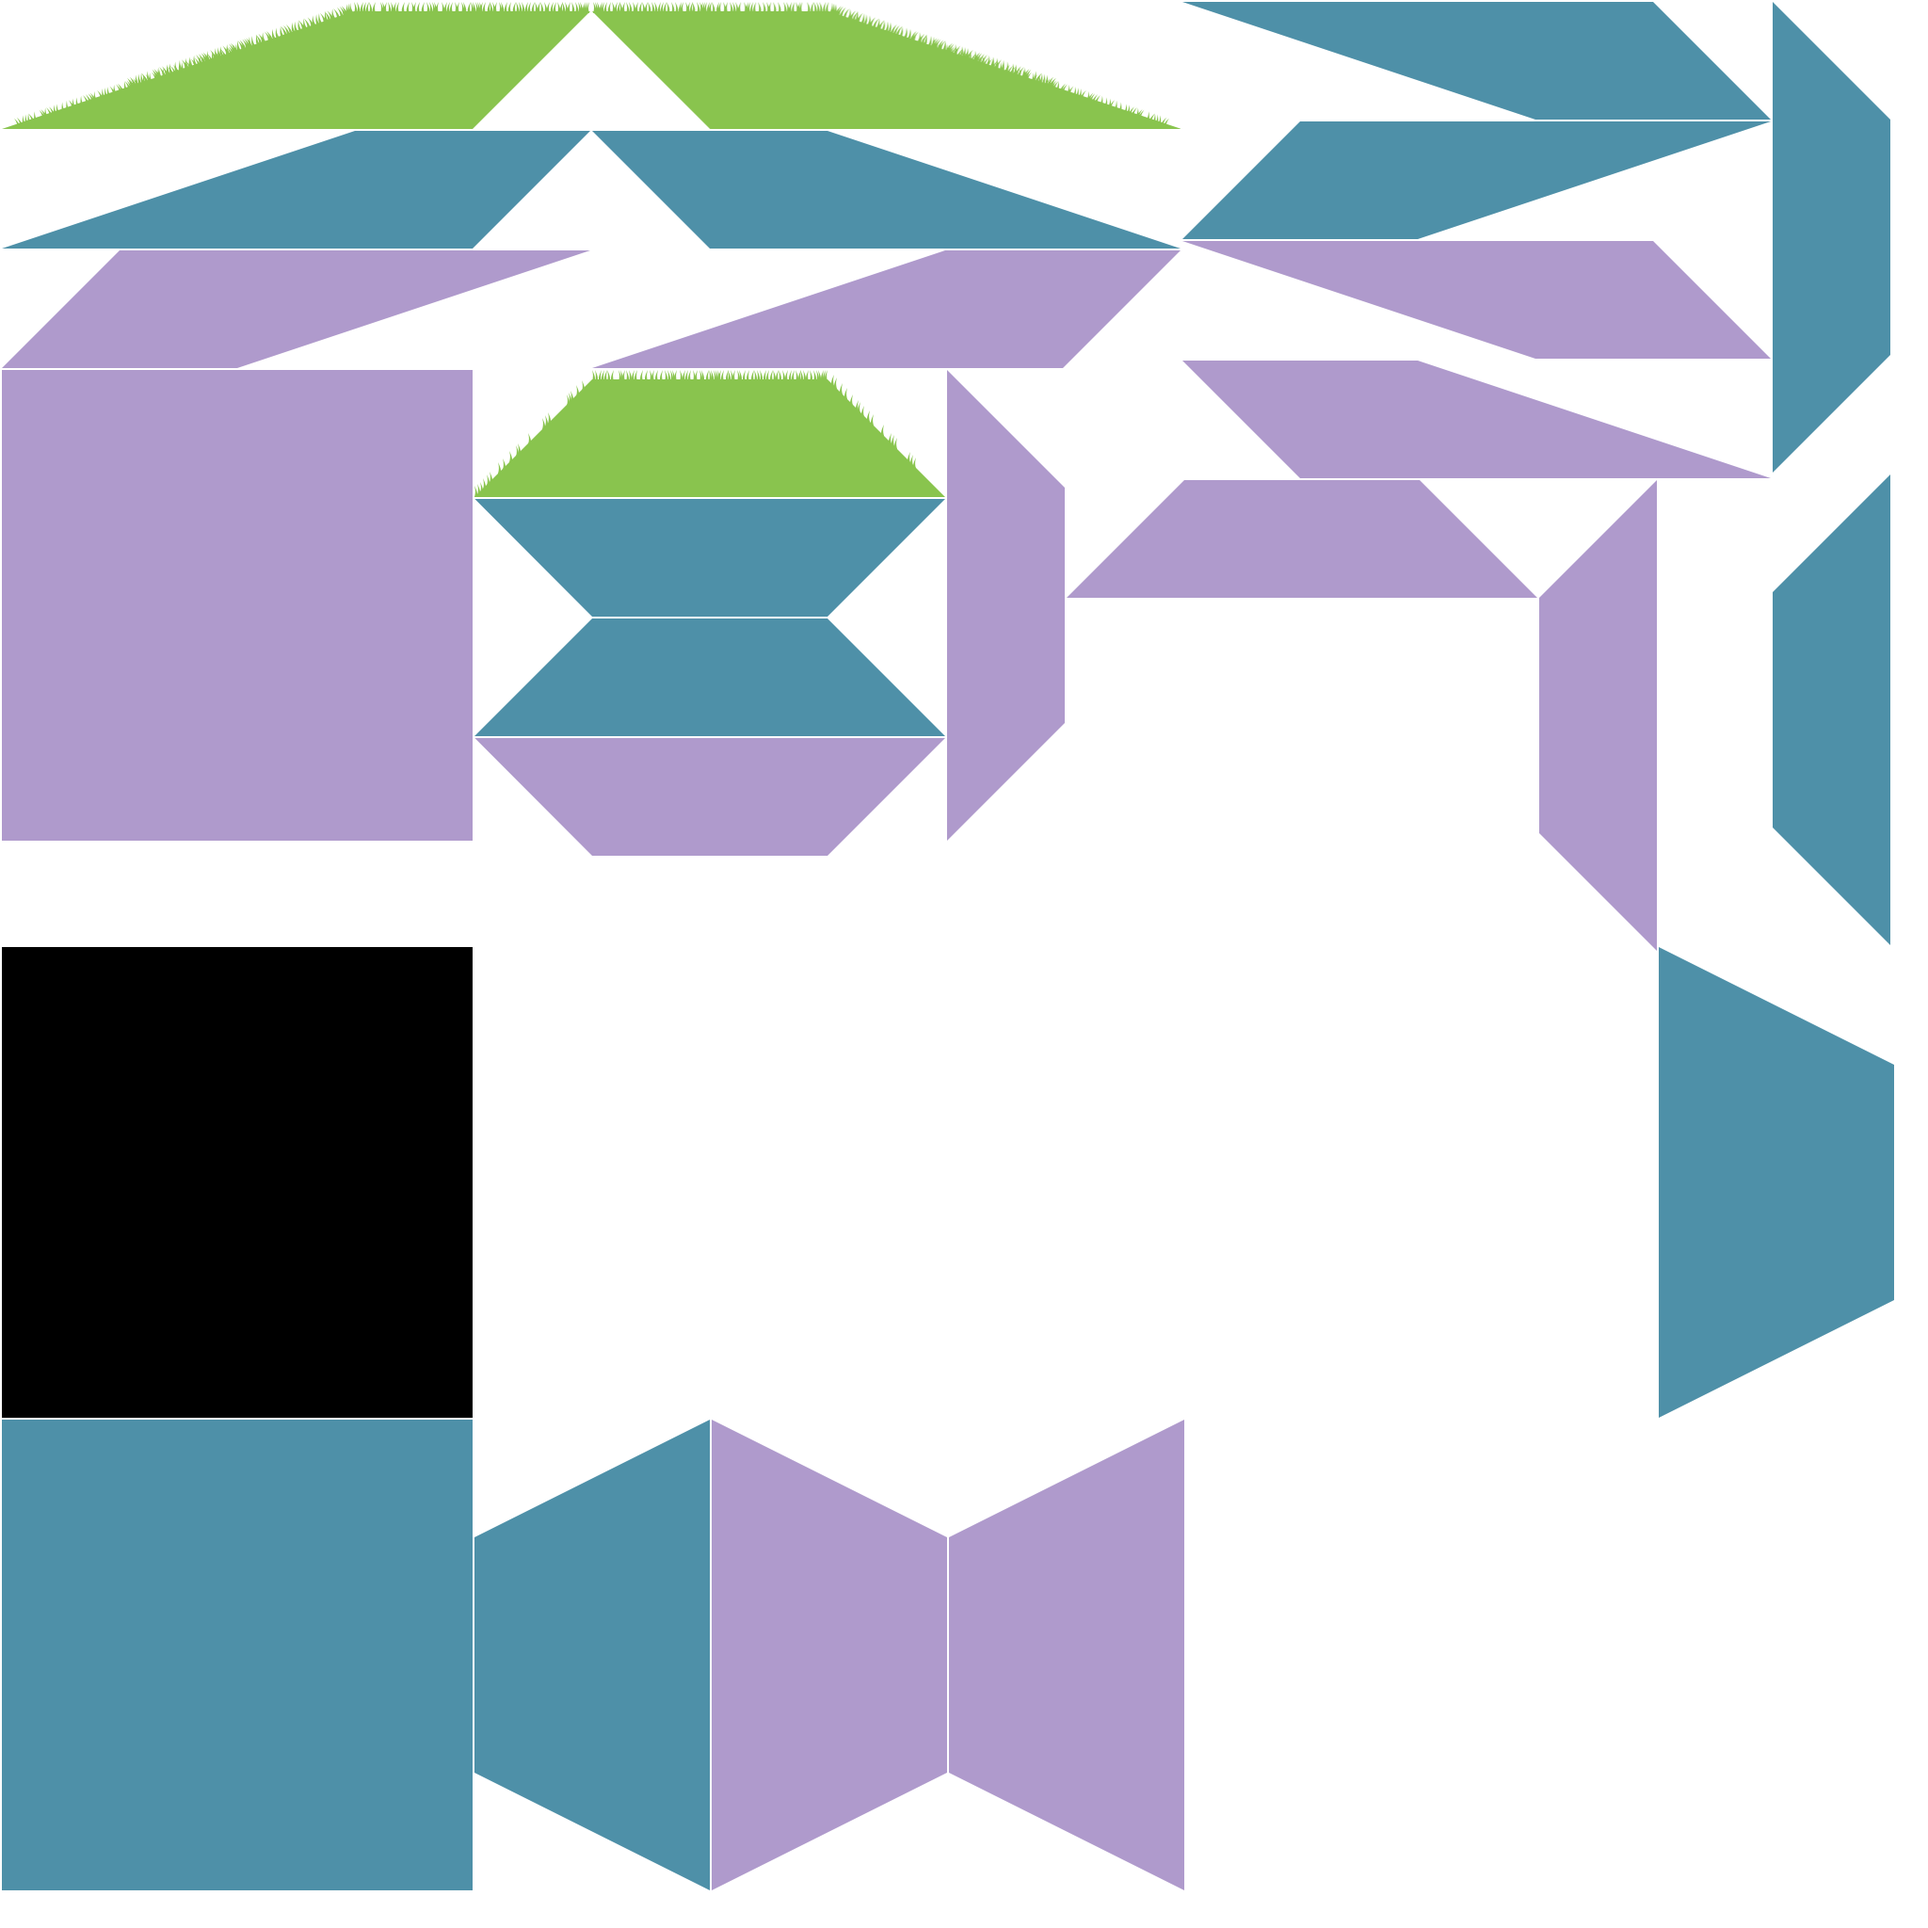
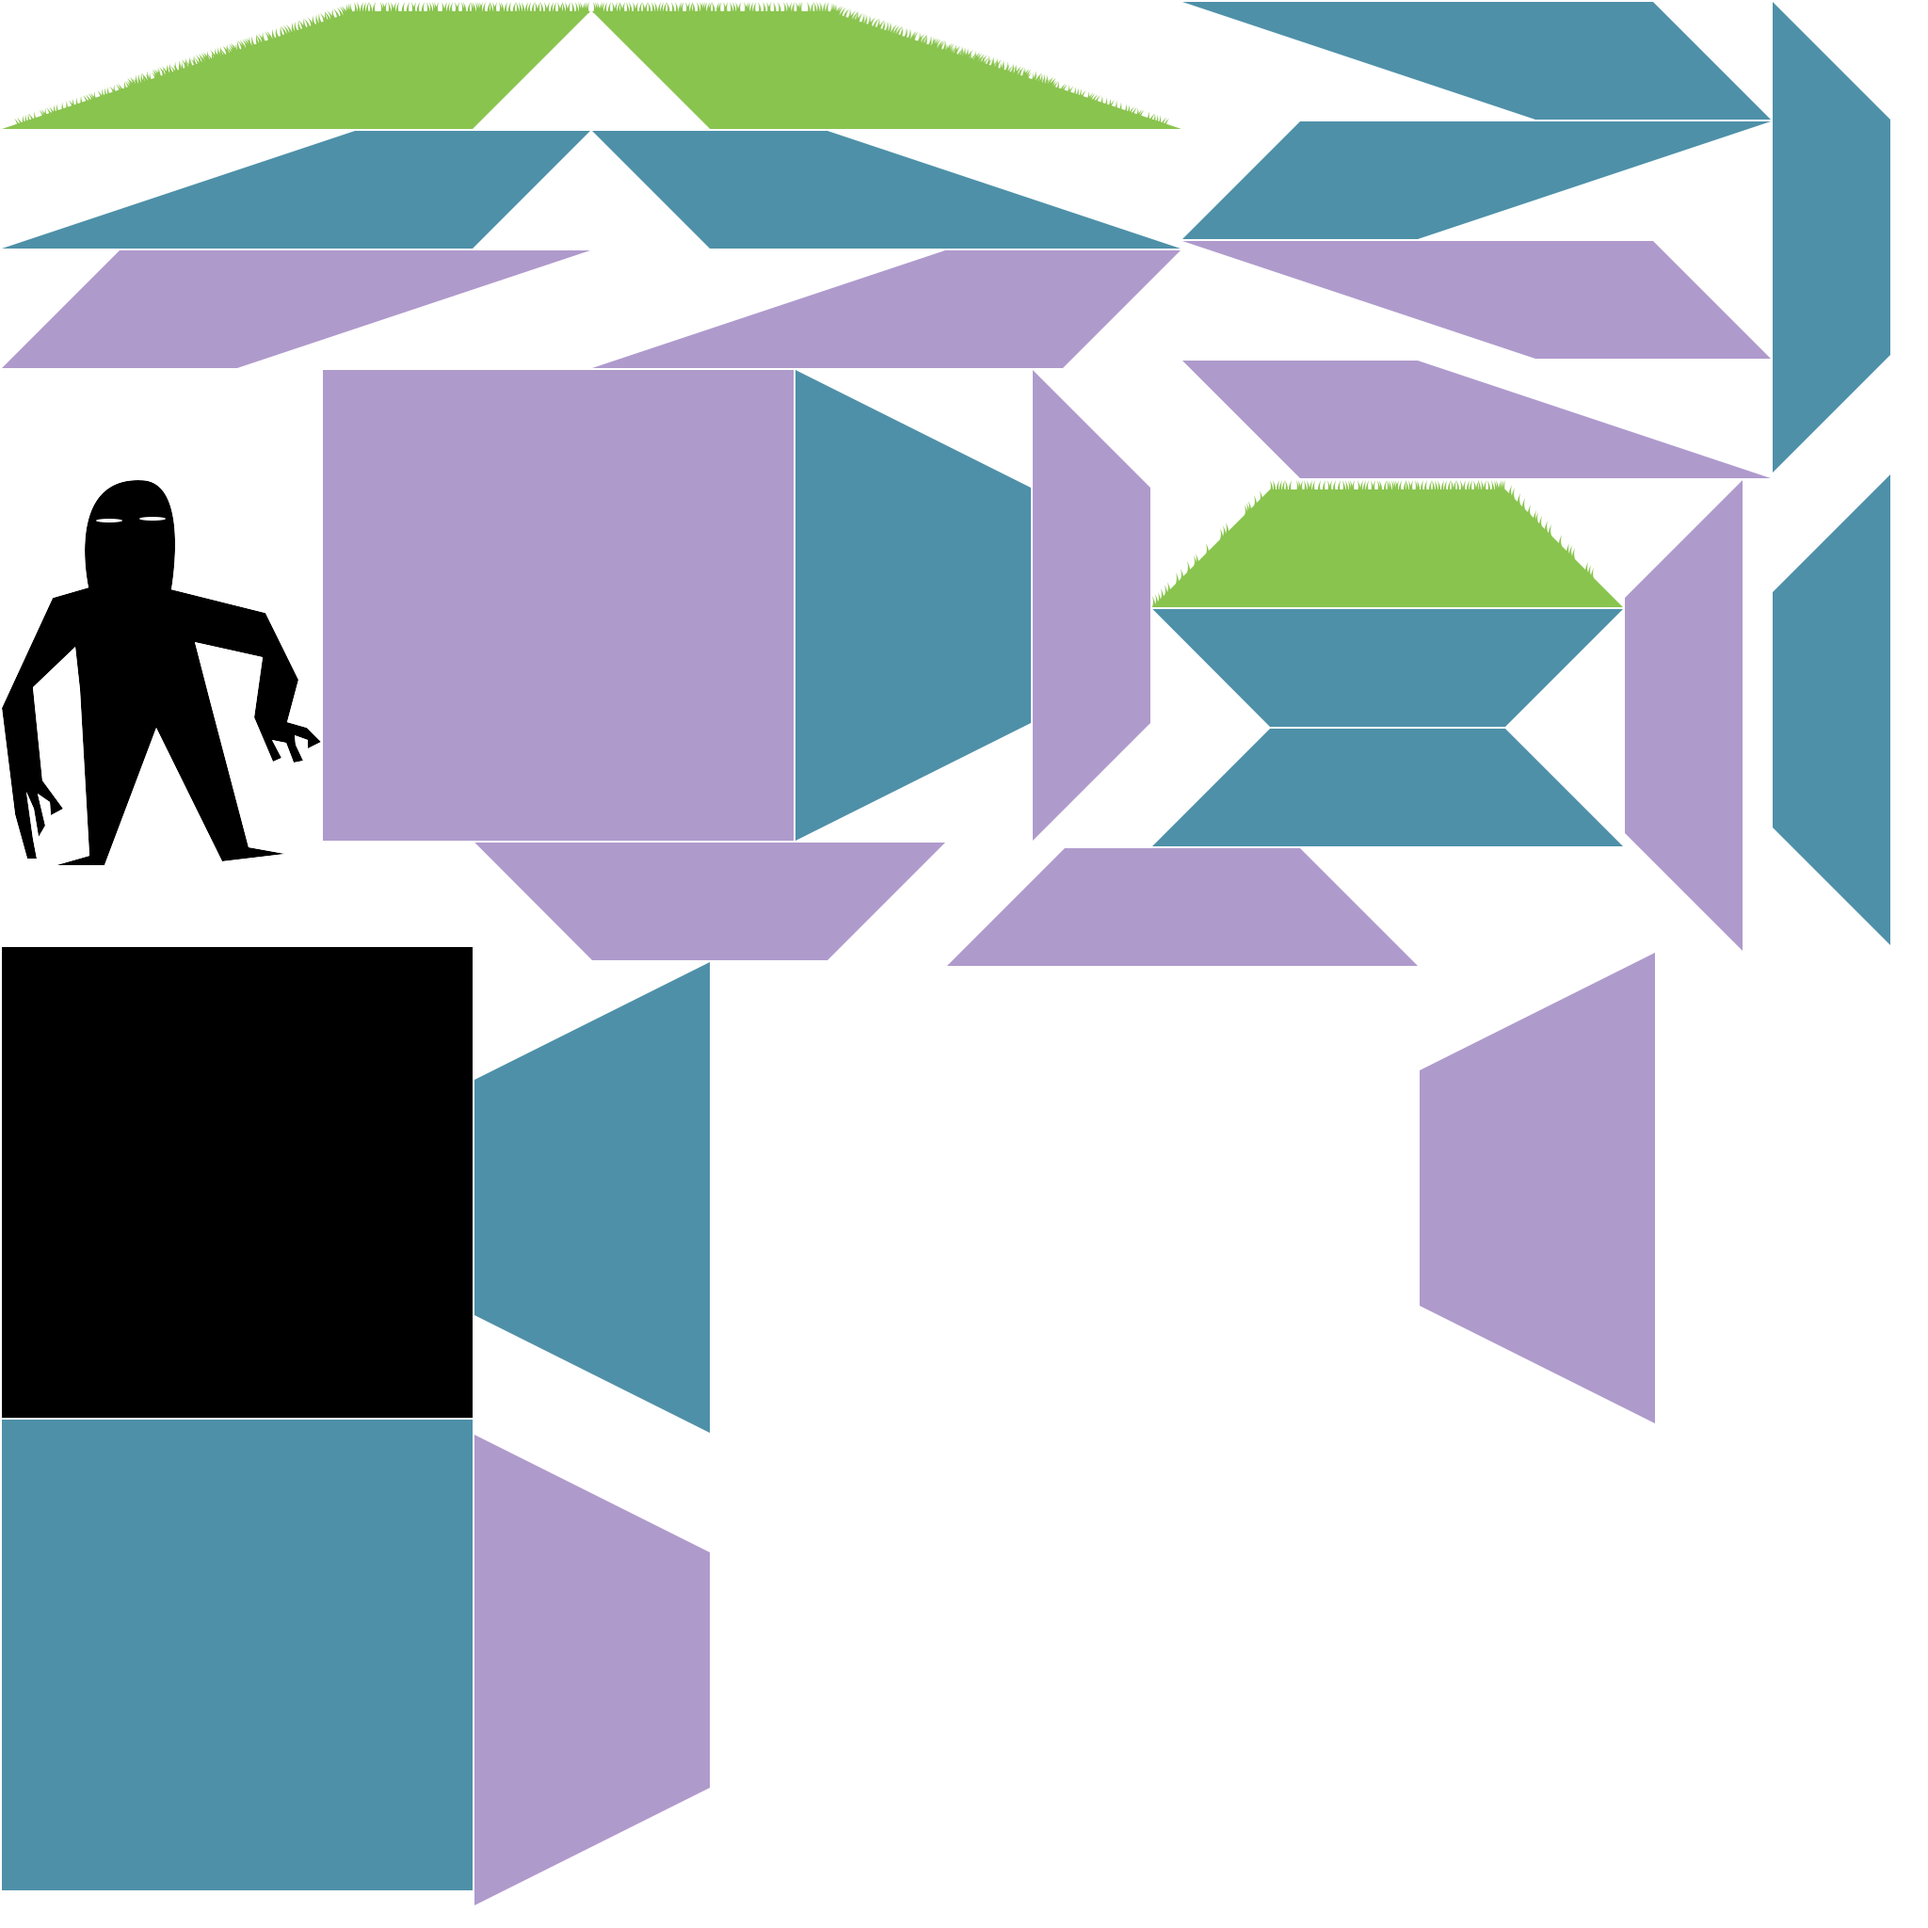
Added monster to pack and fixed undefined checks

diff --git a/engine/edgy.js b/engine/edgy.js
@@ -175,6 +175,7 @@ var engine;
             e.cw = e.canvas.width;
             e.ch = e.canvas.height;
             e.tileSizeRef = e.canvas.height - e.canvas.height / 16;
+            e.maxMonsterHeight = e.tileSizeRef / 1.5;
             e.gl = e.canvas.getContext('webgl', { antialias: true });
             var shader = new utils.Shader(e.gl);
             shader.getShader('shader-fs');
@@ -412,7 +413,7 @@ var engine;
                         for (var x = 0; x < order.length; x++) {
                             var xx = myX + order[x];
                             var pos = xx.toString() + "," + rowNum.toString();
-                            if (typeof e.boxes[xx] !== "undefined" && typeof e.boxes[xx][rowNum] !== "undefined") {
+                            if (e.boxes[xx] !== undefined && e.boxes[xx][rowNum] !== undefined) {
                                 displayBoxes.push(e.boxes[xx][rowNum]);
                             }
                         }
@@ -424,7 +425,7 @@ var engine;
                         for (var x = 0; x < order.length; x++) {
                             var xx = myX + order[x];
                             var pos = xx.toString() + "," + rowNum.toString();
-                            if (typeof e.boxes[xx] !== "undefined" && typeof e.boxes[xx][rowNum] !== "undefined") {
+                            if (e.boxes[xx] !== undefined && e.boxes[xx][rowNum] !== undefined) {
                                 displayBoxes.push(e.boxes[xx][rowNum]);
                             }
                         }
@@ -436,7 +437,7 @@ var engine;
                         for (var y = 0; y < order.length; y++) {
                             var yy = myY + order[y];
                             var pos = colNum.toString() + "," + yy.toString();
-                            if (typeof e.boxes[colNum] !== "undefined" && typeof e.boxes[colNum][yy] !== "undefined") {
+                            if (e.boxes[colNum] !== undefined && e.boxes[colNum][yy] !== undefined) {
                                 displayBoxes.push(e.boxes[colNum][yy]);
                             }
                         }
@@ -448,7 +449,7 @@ var engine;
                         for (var y = 0; y < order.length; y++) {
                             var yy = myY + order[y];
                             var pos = colNum.toString() + "," + yy.toString();
-                            if (typeof e.boxes[colNum] !== "undefined" && typeof e.boxes[colNum][yy] !== "undefined") {
+                            if (e.boxes[colNum] !== undefined && e.boxes[colNum][yy] !== undefined) {
                                 displayBoxes.push(e.boxes[colNum][yy]);
                             }
                         }
@@ -693,6 +694,15 @@ function setRectangle(gl, x, y, width, height, buffer) {
     buffer[11] = y2;
     gl.bufferData(gl.ARRAY_BUFFER, buffer, gl.DYNAMIC_DRAW);
 }
+var thing;
+(function (thing) {
+    var Thing = (function () {
+        function Thing() {
+        }
+        return Thing;
+    })();
+    thing.Thing = Thing;
+})(thing || (thing = {}));
 /// <reference path="Engine.ts" />
 var SRC = 'assets/package';
 var MAPSRC = 'assets/map_courtyard_grass.json';

diff --git a/engine/Engine.ts b/engine/Engine.ts
@@ -28,6 +28,7 @@ export class Engine {
 	drawDistance:number;
 	alphaUniform:WebGLUniformLocation;
 	tileOpacity:number;
+	maxMonsterHeight:number;
 
 	// Frames Per Second for developer reference
 	fpsFrames:number;
@@ -62,8 +63,12 @@ export class Engine {
 		
 		//create a reference scaler variable s
 		//lets assume that the closest front_center will be this tall and this wide
+		// this is also the tallest a character can possibly be.
 		e.tileSizeRef = e.canvas.height-e.canvas.height/16; 
 		
+		// if a monster is in the middle of a box, this is their maximum height;
+		e.maxMonsterHeight = e.tileSizeRef/1.5;
+
 		// graphics library
 		e.gl = <WebGLRenderingContext>e.canvas.getContext('webgl', {antialias: true});
 		//e.gl = <WebGLRenderingContext> initWebGL(e.canvas)
@@ -339,7 +344,7 @@ export class Engine {
 						for (var x = 0; x < order.length; x++) {
 							var xx = myX + order[x];
 							var pos  = xx.toString() + "," + rowNum.toString();
-							if (typeof e.boxes[xx] !== "undefined" && typeof e.boxes[xx][rowNum] !== "undefined") {
+							if ( e.boxes[xx] !== undefined &&  e.boxes[xx][rowNum] !== undefined) {
 								displayBoxes.push(e.boxes[xx][rowNum]);
 							}
 						}
@@ -351,7 +356,7 @@ export class Engine {
 						for (var x = 0; x < order.length; x++) {
 							var xx = myX + order[x];
 							var pos  = xx.toString() + "," + rowNum.toString();
-							if (typeof e.boxes[xx] !== "undefined" && typeof e.boxes[xx][rowNum] !== "undefined") {
+							if ( e.boxes[xx] !== undefined &&  e.boxes[xx][rowNum] !== undefined) {
 								displayBoxes.push(e.boxes[xx][rowNum]);
 							}
 						}
@@ -363,7 +368,7 @@ export class Engine {
 					for (var y = 0; y < order.length; y++) {
 						var yy = myY + order[y];
 						var pos  = colNum.toString() + "," + yy.toString();
-						if (typeof e.boxes[colNum] !== "undefined" && typeof e.boxes[colNum][yy] !== "undefined") {
+						if ( e.boxes[colNum] !== undefined &&  e.boxes[colNum][yy] !== undefined) {
 							displayBoxes.push(e.boxes[colNum][yy]);
 						}
 					}
@@ -375,7 +380,7 @@ export class Engine {
 						for (var y = 0; y < order.length; y++) {
 							var yy = myY + order[y];
 							var pos  = colNum.toString() + "," + yy.toString();
-							if (typeof e.boxes[colNum] !== "undefined" && typeof e.boxes[colNum][yy] !== "undefined") {
+							if ( e.boxes[colNum] !== undefined &&  e.boxes[colNum][yy] !== undefined) {
 								displayBoxes.push(e.boxes[colNum][yy]);
 							}
 						}
@@ -418,10 +423,10 @@ export class Engine {
 		e.gl.enableVertexAttribArray(e.positionLocation);
 		e.gl.vertexAttribPointer(e.positionLocation, 2, e.gl.FLOAT, false, 0, 0);
 
-		var w = +pack[pattern][surfaceType]["w"];// * total_width;
-		var h = +pack[pattern][surfaceType]["h"];// * total_height;
+		var w = +pack[pattern][surfaceType]["w"];
+		var h = +pack[pattern][surfaceType]["h"];
 		w=e.tileSizeRef*w/h;
-		h=e.tileSizeRef;
+		h=e.tileSizeRef;		
 		var zScale = Math.pow(2,z+e.zAnim);
 		var scenePush = 0;
 		var diff;
@@ -435,7 +440,6 @@ export class Engine {
                 scenePush = -e.cw;
             }
 		}
-		
 		
 		switch(surfaceType) {
 			case "left_center":

diff --git a/engine/Thing.ts b/engine/Thing.ts
@@ -1,0 +1,9 @@
+module thing {
+	export class Thing {
+		x:number;
+		y:number;
+		moves:boolean;
+		facing:string;
+		height:number;
+	}
+}
